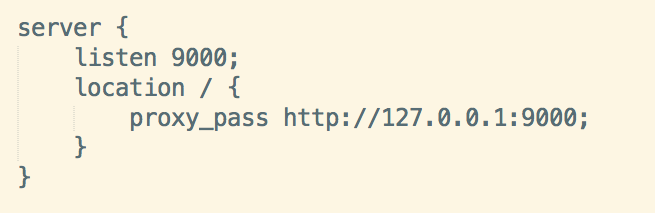
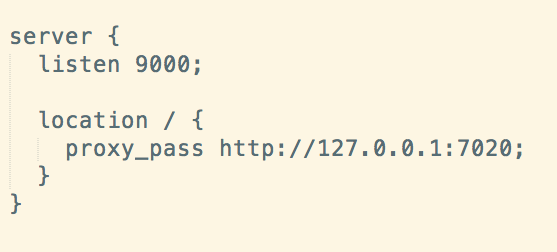
finish adjustments for session 3

Changed region(s): [[0.061, 0.1972, 0.9461, 0.7606], [0.0, 0.0563, 0.2136, 0.1972], [0.0, 0.7606, 0.061, 0.9014]]

diff --git a/session3.html b/session3.html
@@ -23,14 +23,6 @@
     <!--[if lt IE 9]>
     <script src="lib/js/html5shiv.js"></script>
     <![endif]-->
-    
-    <style>
-      code.html {font-size: 130%;}
-      
-      .wider {
-        width: 150%;
-      }
-    </style>
   </head>
 
   <body>
@@ -88,18 +80,20 @@
           <p>Software packages are written with specific intents, but allow you to configure them.</p>
           
           <br>
-          <p>For example:</p>
-          <ul>
-            <li>Desktop Background</li>
-            <li>Username and Password</li>
-          </ul>
+          <div class="left-align">
+            <p>For example:</p>
+            <ul>
+              <li>Desktop Background</li>
+              <li>Username and Password</li>
+            </ul>
+            
+            <br>
+            <br>
+            <p>Most unix packages have 1 or multiple config files.</p>
           
-          <br>
-          <p>Most unix packages will have 1 of many configraution files.</p>
-          
-          <b></b>
-          
-          <p>There isn't a default location for the config file - read the docs.</p>
+            <br>
+            <p>No default location for the config file - read the docs.</p>
+          </div>
         </section>
       
         <section>
@@ -243,19 +237,21 @@ default_type application/octet-stream;
         <section>
           <h3>nginx.conf</h3>
           <h5>block: http</h5>
-          <h3>Logging Settings</h3>
+          <h5>Logging Settings</h5>
+          <img src="images/nginx-config-logging.png">
         </section>
           
         <section>
           <h3>nginx.conf</h3>
           <h5>block: http</h5>
-          <h3>Gzip Settings</h3>
+          <h5>Gzip Settings</h5>
+          <img class="scale50" src="images/nginx-config-gzip.png">
         </section>
         
         <section>
           <h3>nginx.conf</h3>
           <h5>block: http</h5>
-          <h3>Virtual Host Configs</h3>
+          <h5>Virtual Host Configs</h5>
           
           <br>
           <p>Again, pulling outside files into configuration</p>
@@ -319,8 +315,9 @@ ls
           <h3>NGINX "server" blocks for Site</h3>  
           
           <br>
-          <p>Need somthing to map between NGXIN and folder</p>
+          <p>Need somthing to map between NGINGX and folder</p>
           
+          <br>
           <img src="images/nginx-server-html.png">
         </section>
         
@@ -349,10 +346,10 @@ ls
 
           <br>
 <pre><code>server {
-listen 7010;
-server_name html_site;
-root /var/www/html_site;
-index index.html index.htm;
+  listen 7010;
+  server_name html_site;
+  root /var/www/html_site;
+  index index.html index.htm;
 }</code></pre>
 
           <br>
@@ -441,16 +438,14 @@ sudo apt-get install nodejs</code></pre>
           <br>
           <p>Use git again</p>
 <pre><code>cd /var/www
-git clone git@github.com:westonplatter/gdi-boulder-servers-intro-node-uploader.git node_site
+git clone git://github.com/westonplatter/node-uploader.git
+cd node_site
 </code></pre>
 
           <br>
           <p>Install dependencies</p>
-          <pre><code>npm install</code></pre>
-          
-          <br>
-          <p>Install this too</p>
-          <pre><code>npm install -g forever</code></pre>
+          <pre><code># location = /var/www/node_site
+npm install</code></pre>
         </section>
         
         <section>
@@ -458,11 +453,12 @@ git clone git@github.com:westonplatter/gdi-boulder-servers-intro-node-uploader.g
           
           <br>
           <p>Start up the node app</p>
-          <pre><code>node server</code></pre>
+          <pre><code># location = /var/www/node_site
+node server.js</code></pre>
           
           <br>
-          <p>Go to your IP address on port 9000</p>
-          <pre><code>9.8.7.6:9000</code></pre>
+          <p>Go to your IP address on port 7020</p>
+          <pre><code>9.8.7.6:7020</code></pre>
         </section>
       
         <section>
@@ -470,7 +466,6 @@ git clone git@github.com:westonplatter/gdi-boulder-servers-intro-node-uploader.g
           
           <br>
           <p>Create a Server block with Reverse Proxy</p>
-          
           <img src="images/nginx-reverse-proxy.png">
         </section>
         
@@ -485,10 +480,36 @@ git clone git@github.com:westonplatter/gdi-boulder-servers-intro-node-uploader.g
 nano node_site</code></pre>
 
             <br>
-            <p>Restart nginx to pick up configs</p>
-            <pre><code>sudo service nginx restart</code></pre>
+            <pre><code>
+server {
+  listen 9000;
+  
+  location / {
+    proxy_pass http://127.0.0.1:7020;
+  }
+}
+</code></pre>
         </section>
         
+        
+      <section>
+        <h3></h3>  
+          <h3>Test it out</h3>
+          
+          <p>Restart nginx to pick up node_site config</p>
+          <pre><code># location = does not matter
+sudo service nginx restart</code></pre>
+          
+          <br>
+          <p>Start the node app</p>
+          <pre><code># location = /var/www/node_site
+node server.js</code></pre>
+          
+          <br>
+          <p>Open web browser and go to IP address on port 9000</p>
+          <pre><code>9.8.7.6:9000</code></pre>
+      </section>
+      
        <section>
           <h3>How do we keep the app running?</h3>
           
@@ -496,23 +517,38 @@ nano node_site</code></pre>
           <p>We need a process manager, AKA, daemon</p>
           
           <br>
-<pre><code>sudo npm install -g forever
-cd /var/www/node_site
-forever start server.js
+          <p>Forever is a Javascript "daemon" tool</p>
+<pre><code># location = does not matter
+sudo npm install -g forever
 </code></pre>
 
           <br>
-          <p>See that it's running (similar to "ps aux | grep nginx"</p>
+          <p>Use forever to start nodejs app</p>
+<pre><code>cd /var/www/node_site
+forever start server.js
+</code></pre>
+        </section>
+        
+        <section>
+          <h3>Forever Commands</h3>
+          
+          <br>
+          <p>See processes that are running</p>
+          <p>(similar to "ps aux | grep nginx"</p>
           <pre><code>forever list</code></pre>
-         </section>
+          
+          <br>
+          <p>Stop all forever processes</p>
+          <pre><code>forever stopall</code></pre>
+          
+          <br>
+          <p>List all forever commands</p>
+          <pre><code>forever --help</code></pre>
+        </section>
         
         <section>
           <h3>Session 3 End Goal</h3>
           <img src="images/session-3-endgoal.png">
-        </section>
-    
-        <section>
-          10 min break
         </section>
       </div> <!-- end of div class="slides" -->
       
